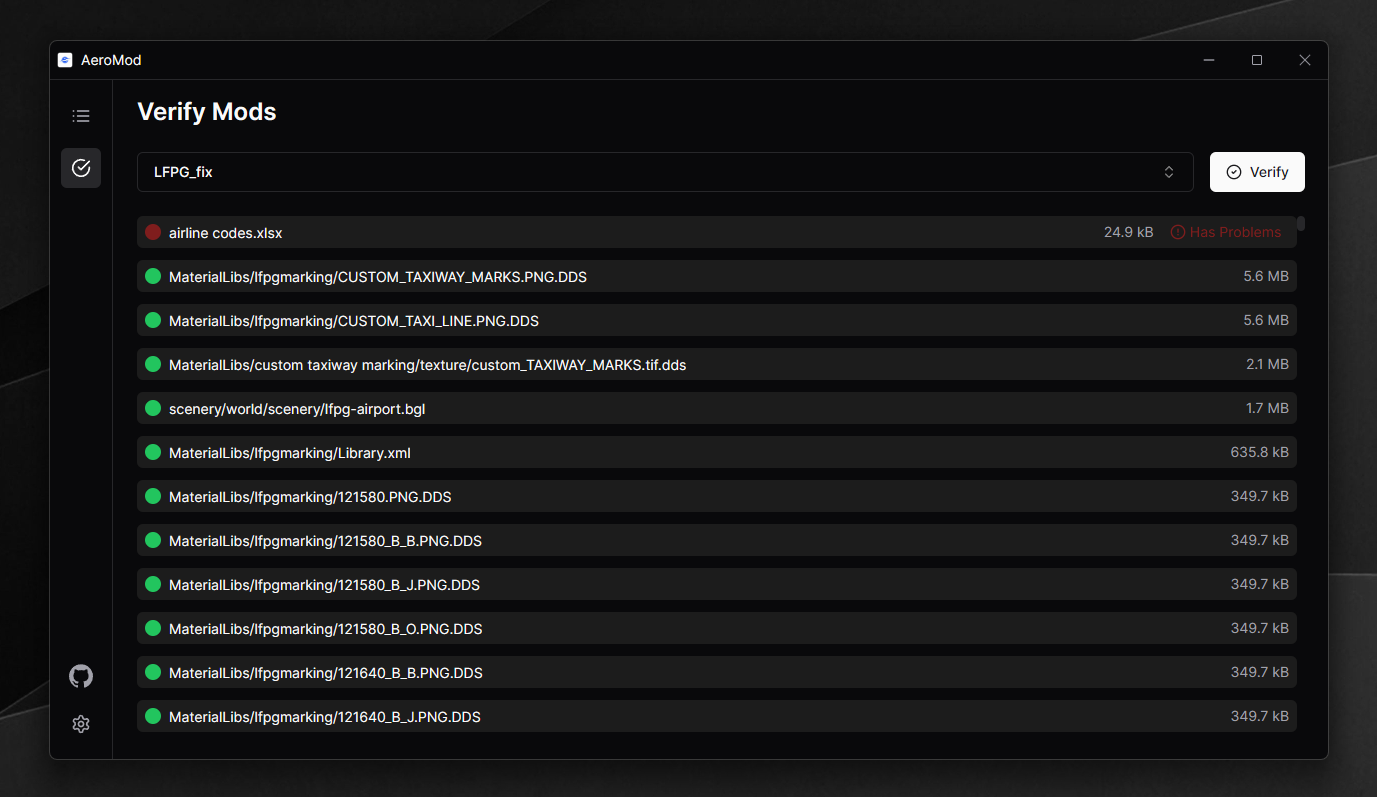
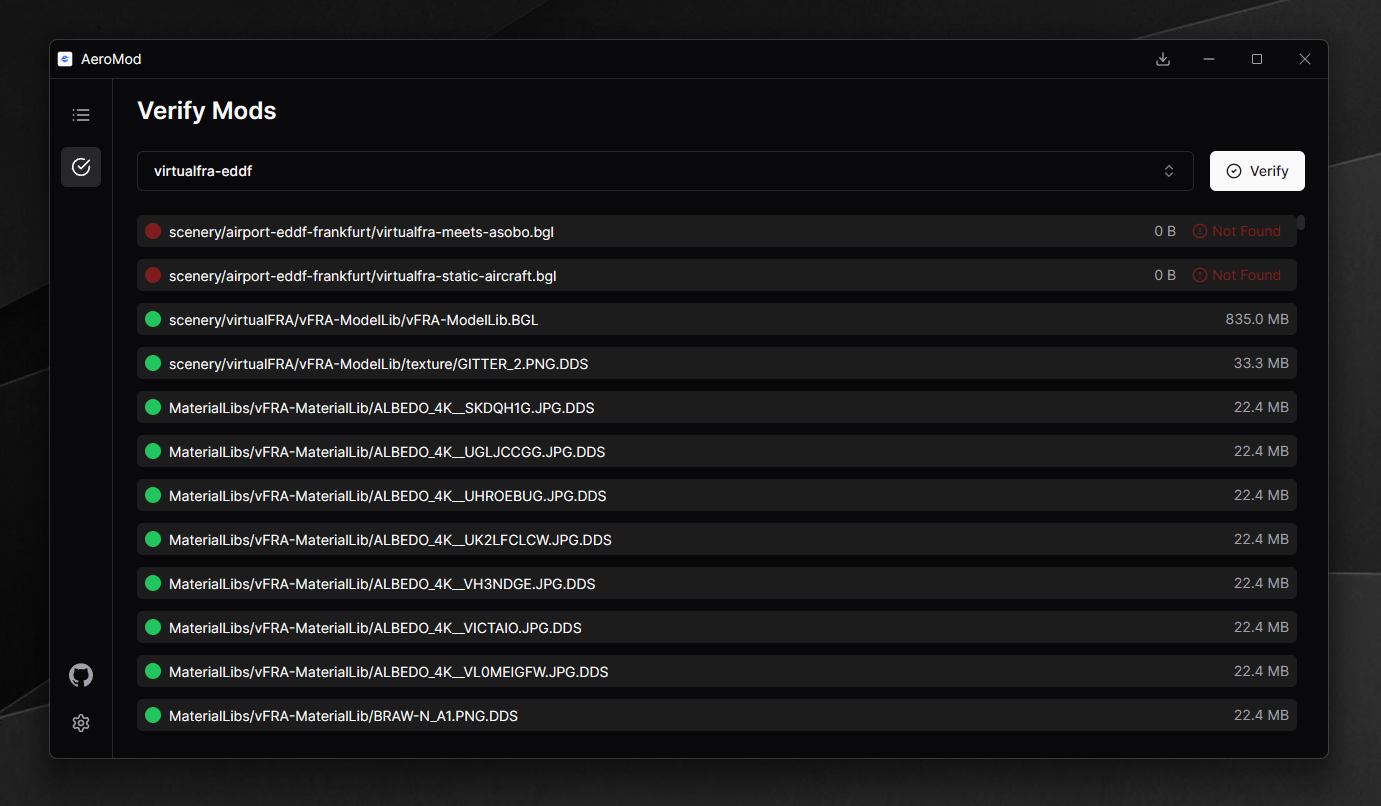
feat: new install panel with drag and drop functionality

diff --git a/frontend/src/components/install-panel.tsx b/frontend/src/components/install-panel.tsx
@@ -1,0 +1,69 @@
+import { useEffect } from "react";
+import { useMutation, useQueryClient } from "@tanstack/react-query";
+import { DownloadIcon } from "lucide-react";
+import { OnFileDrop, OnFileDropOff } from "@wailsjs/runtime/runtime";
+import { QUERY_KEYS } from "@/constants";
+import { installMod } from "@/lib/install";
+import { cn } from "@/lib/utils";
+import {
+  Popover,
+  PopoverContent,
+  PopoverTrigger,
+} from "@/components/ui/popover";
+
+interface InstallPanelProps {
+  children: React.ReactNode;
+}
+
+export default function InstallPanel({ children }: InstallPanelProps) {
+  const queryClient = useQueryClient();
+  const { mutate, isPending } = useMutation({
+    mutationFn: installMod,
+    onSuccess: () => {
+      queryClient.invalidateQueries({ queryKey: [QUERY_KEYS.getAllMods] });
+    },
+  });
+
+  useEffect(() => {
+    OnFileDrop((_x, _y, paths) => {
+      if (paths.length < 1) return;
+
+      mutate(paths[0]);
+    }, true);
+
+    return () => {
+      OnFileDropOff();
+    };
+  }, []);
+
+  const preventDoubleClick = (e: React.MouseEvent<HTMLDivElement>) => {
+    if (e.detail === 2) {
+      e.stopPropagation();
+    }
+  };
+
+  return (
+    <Popover>
+      <PopoverTrigger asChild>{children}</PopoverTrigger>
+      <PopoverContent
+        onClick={preventDoubleClick}
+        className="flex w-[400px] flex-col gap-y-4"
+      >
+        <h1 className="font-bold">Install Mods</h1>
+        <div
+          onClick={() => mutate("")}
+          className={cn(
+            "relative flex aspect-video w-full cursor-pointer flex-col items-center justify-center gap-y-3 rounded border border-dashed data-[wails-drop-target-active]:bg-red-500",
+            isPending && "animate-pulse"
+          )}
+          style={{ "--wails-drop-target": "drop" } as React.CSSProperties}
+        >
+          <DownloadIcon className="size-8 text-muted-foreground" />
+          <p className="text-sm text-muted-foreground">
+            Install mods by dropping or clicking here.
+          </p>
+        </div>
+      </PopoverContent>
+    </Popover>
+  );
+}

diff --git a/frontend/src/components/app-bar.tsx b/frontend/src/components/app-bar.tsx
@@ -1,5 +1,5 @@
 import { useEffect, useState } from "react";
-import { MinusIcon, SquareIcon } from "lucide-react";
+import { DownloadIcon, MinusIcon, SquareIcon } from "lucide-react";
 import {
   WindowIsMaximised,
   WindowMinimise,
@@ -9,6 +9,7 @@ import {
 import appIcon from "@/assets/images/icon.png";
 import maximizeIconLight from "@/assets/icons/maximize-light.png";
 import maximizeIconDark from "@/assets/icons/maximize-dark.png";
+import InstallPanel from "./install-panel";
 
 export default function AppBar() {
   const [isMaximised, setIsMaximised] = useState<boolean>();
@@ -62,6 +63,11 @@ export default function AppBar() {
         className="flex items-center"
         style={{ "--wails-draggable": "no-drag" } as React.CSSProperties}
       >
+        <InstallPanel>
+          <div className="mr-2 flex size-7 cursor-pointer items-center justify-center rounded-md transition hover:bg-accent">
+            <DownloadIcon className="size-4 text-muted-foreground" />
+          </div>
+        </InstallPanel>
         <div
           className="flex h-10 w-12 items-center justify-center transition hover:bg-accent"
           onClick={() => handleAction("MINIMISE")}

diff --git a/frontend/src/routes/home.tsx b/frontend/src/routes/home.tsx
@@ -9,6 +9,7 @@ import {
 } from "lucide-react";
 import { GetAllMods } from "@wailsjs/go/main/App";
 import { installMod } from "@/lib/install";
+import { QUERY_KEYS } from "@/constants";
 
 import {
   DropdownMenu,
@@ -30,13 +31,13 @@ export default function HomePage() {
     data: mods,
     refetch,
   } = useQuery({
-    queryKey: ["getAllMods"],
+    queryKey: [QUERY_KEYS.getAllMods],
     queryFn: () => GetAllMods(),
     retry: false,
   });
 
   const installMutation = useMutation({
-    mutationFn: installMod,
+    mutationFn: () => installMod(),
     onSuccess: () => refetch(),
   });
 

diff --git a/frontend/src/routes/verify.tsx b/frontend/src/routes/verify.tsx
@@ -3,6 +3,7 @@ import { toast } from "sonner";
 import { CheckCircle2, CircleAlert } from "lucide-react";
 import { useMutation, useQuery } from "@tanstack/react-query";
 import { GetModNames, VerifyMod } from "@wailsjs/go/main/App";
+import { QUERY_KEYS } from "@/constants";
 
 import {
   Tooltip,
@@ -17,7 +18,7 @@ export default function VerifyPage() {
   const [selectedModName, setSelectedModName] = useState<string>();
 
   const { data: mods } = useQuery({
-    queryKey: ["getModNames"],
+    queryKey: [QUERY_KEYS.getModNames],
     queryFn: async () => GetModNames(),
   });
 

diff --git a/frontend/src/components/setup-modal.tsx b/frontend/src/components/setup-modal.tsx
@@ -1,12 +1,12 @@
 import { useNavigate } from "react-router-dom";
 import { useEffect, useState } from "react";
 import { toast } from "sonner";
+import { ArrowLeft, CheckCircle2, FolderOpen } from "lucide-react";
 import {
   CompleteSetup,
   FindSimCommunityFolder,
   OpenDirectoryDialog,
 } from "@wailsjs/go/main/App";
-import { ArrowLeft, CheckCircle2, FolderOpen } from "lucide-react";
 import { Button } from "@/components/ui/button";
 
 export default function SetupDialog() {

diff --git a/frontend/src/components/sidebar.tsx b/frontend/src/components/sidebar.tsx
@@ -1,10 +1,10 @@
 import { useLocation, Link } from "react-router-dom";
 import { CheckCircleIcon, ListIcon, SettingsIcon } from "lucide-react";
 import { BrowserOpenURL } from "@wailsjs/runtime/runtime";
-import { Button } from "@/components/ui/button";
-import { Hint } from "./hint";
 import { cn } from "@/lib/utils";
 import { GITHUB_URL } from "@/constants";
+import { Button } from "@/components/ui/button";
+import { Hint } from "./hint";
 
 const routes = [
   {

diff --git a/frontend/src/components/mod-select.tsx b/frontend/src/components/mod-select.tsx
@@ -1,4 +1,4 @@
-import { useMemo, useState } from "react";
+import { useState } from "react";
 import { Check, ChevronsUpDown } from "lucide-react";
 import { CommandList } from "cmdk";
 
@@ -16,7 +16,6 @@ import {
   PopoverContent,
   PopoverTrigger,
 } from "@/components/ui/popover";
-import { msfs } from "@wailsjs/go/models";
 
 type ModSelectProps = {
   mods?: string[];

diff --git a/frontend/src/lib/install.ts b/frontend/src/lib/install.ts
@@ -1,9 +1,9 @@
 import { toast } from "sonner";
 import { InstallMod } from "@wailsjs/go/main/App";
 
-export async function installMod() {
+export async function installMod(path?: string) {
   try {
-    const installed = await InstallMod();
+    const installed = await InstallMod(path || "");
     if (!installed) return;
 
     toast.success("Mod installed successfully!");

diff --git a/frontend/src/main.tsx b/frontend/src/main.tsx
@@ -50,8 +50,8 @@ const queryClient = new QueryClient();
 root.render(
   <React.StrictMode>
     <ThemeProvider defaultTheme="dark" storageKey="aeromod-theme">
-      <AppBar />
       <QueryClientProvider client={queryClient}>
+        <AppBar />
         <SettingsProvider>
           <TooltipProvider>
             <RouterProvider router={router} />

diff --git a/frontend/src/constants/index.ts b/frontend/src/constants/index.ts
@@ -1,1 +1,6 @@
 export const GITHUB_URL = "https://github.com/fly2z/aeromod";
+
+export const QUERY_KEYS = {
+  getAllMods: "getAllMods",
+  getModNames: "getModNames",
+};

diff --git a/app.go b/app.go
@@ -266,13 +266,21 @@ func (a *App) GetModThumbnail(modName string) (string, error) {
 	return thumbnail, nil
 }
 
-func (a *App) InstallMod() (bool, error) {
-	archive, err := runtime.OpenFileDialog(a.ctx, runtime.OpenDialogOptions{
-		Title: "Choose Mod",
-	})
+func (a *App) InstallMod(path string) (bool, error) {
+	var archive string
 
-	if err != nil {
-		return false, fmt.Errorf("failed to open directory dialog: %w", err)
+	// open a file dialog if no path is specified
+	if path == "" {
+		var err error
+		archive, err = runtime.OpenFileDialog(a.ctx, runtime.OpenDialogOptions{
+			Title: "Choose Mod",
+		})
+
+		if err != nil {
+			return false, fmt.Errorf("failed to open directory dialog: %w", err)
+		}
+	} else {
+		archive = path
 	}
 
 	if archive == "" {
@@ -286,7 +294,7 @@ func (a *App) InstallMod() (bool, error) {
 
 	archiveDest := strings.TrimSuffix(archive, ext)
 
-	err = utils.Unzip(archive, archiveDest)
+	err := utils.Unzip(archive, archiveDest)
 	if err != nil {
 		return false, err
 	}

diff --git a/main.go b/main.go
@@ -40,6 +40,9 @@ func main() {
 		Bind: []interface{}{
 			app,
 		},
+		DragAndDrop: &options.DragAndDrop{
+			EnableFileDrop: true,
+		},
 		Windows: &windows.Options{
 			DisablePinchZoom:    true,
 			EnableSwipeGestures: false,
